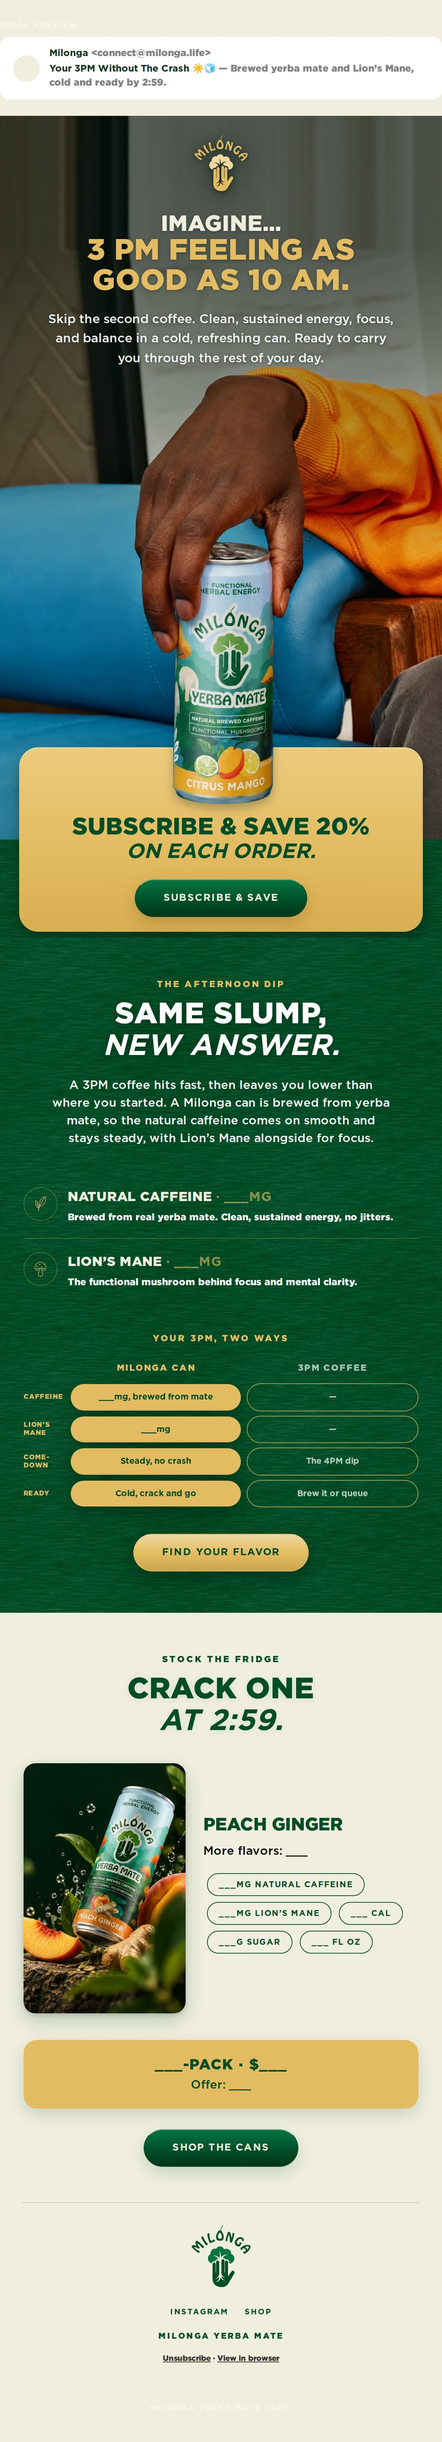
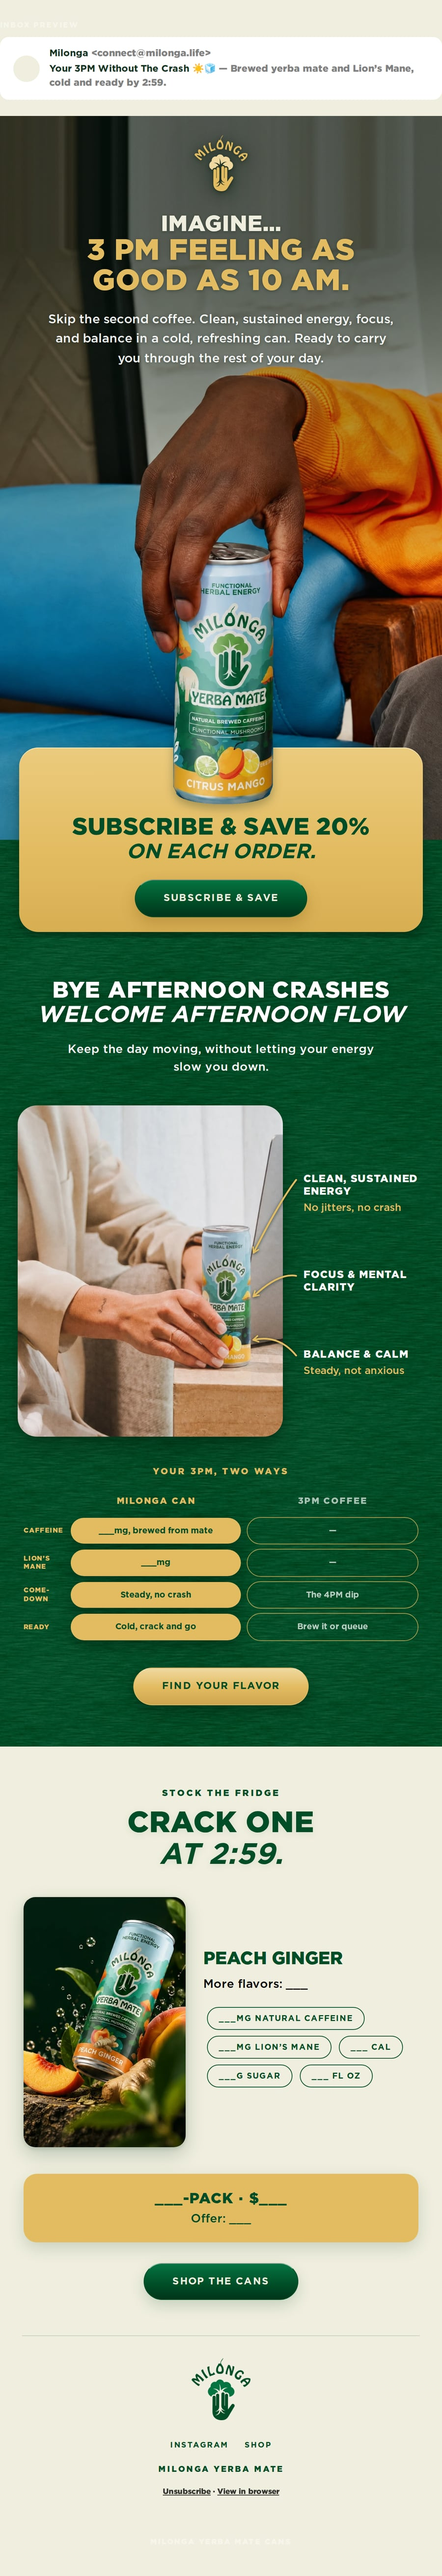
email: section 2 opens on the desk shot with three benefit arrows
New title and line, the eyebrow and ingredient rows removed, and the
Citrus Mango desk photo in a big rounded frame with three gold arrows
running from the benefits on the green into the picture to the can.

Claude-Session: https://claude.ai/code/session_01NhEtXPnfeCJfN73SqBkUZ5

diff --git a/email-ds/emails/three-pm-cans.jsx b/email-ds/emails/three-pm-cans.jsx
@@ -26,6 +26,20 @@ const TBD = '___';
 
 // Section 1 geometry: photo pixels → design units, and the subscribe card.
 const CAN = 600 / 1493;
+
+// Section 2 callout figure. The frame shows the desk crop (850 x 1060); the
+// can sits at x 592–745, y 382–835 of that crop.
+const FIG = { x: 24, w: 360, h: Math.round(360 * 1060 / 850) };
+const CROP = (x, y) => [FIG.x + x * FIG.w / 850, y * FIG.h / 1060];
+const LABEL_X = 412;
+const CALLOUTS = (() => {
+  const right = CROP(745, 0)[0] + 5;
+  return [
+    { title: 'Clean, sustained energy', note: 'No jitters, no crash', y: 92, ty: CROP(0, 470)[1] },
+    { title: 'Focus & mental clarity', y: 222, ty: CROP(0, 610)[1] },
+    { title: 'Balance & calm', note: 'Steady, not anxious', y: 330, ty: CROP(0, 750)[1] },
+  ].map(c => ({ ...c, tx: right, cx: (LABEL_X + right) / 2, cy: (c.y + 9 + c.ty) / 2 - 18 }));
+})();
 const CARD_H = 250;
 
 const SECTION_1_ALT =
@@ -146,27 +160,57 @@ function ThreePmCans() {
       position: 'relative', overflow: 'hidden' } },
 
       h('div', { style: { textAlign: 'center' } },
-        h('div', { style: { fontFamily: FONT, fontWeight: 900, fontSize: 12,
-          letterSpacing: '0.2em', textTransform: 'uppercase', color: GOLD,
-          marginBottom: 14 } }, 'The afternoon dip'),
-        h(M.Headline, { line1: 'Same slump,', line2: 'new answer.', bg: 'forest',
-          size: 40, align: 'center', color: '#FFFFFF', line2Color: '#FFFFFF', italic: true }),
+        h(M.Headline, { line1: 'Bye afternoon crashes', line2: 'welcome afternoon flow', bg: 'forest',
+          size: 31, align: 'center', color: '#FFFFFF', line2Color: '#FFFFFF', italic: true }),
         h('div', { style: { fontFamily: FONT, fontWeight: 500, fontSize: 16,
-          lineHeight: 1.5, color: '#FFFFFF', maxWidth: 460, margin: '20px auto 0' } },
-          'A 3PM coffee hits fast, then leaves you lower than where you started. ' +
-          'A Milonga can is brewed from yerba mate, so the natural caffeine comes on ' +
-          'smooth and stays steady, with Lion’s Mane alongside for focus.'),
+          lineHeight: 1.5, color: '#FFFFFF', maxWidth: 440, margin: '18px auto 0' } },
+          'Keep the day moving, without letting your energy slow you down.'),
       ),
 
-      // Ring rows with the dose in the title — the copy is doing the work
-      // here, so the quiet variant. Doses are blanks until the label is in.
-      h('div', { style: { marginTop: 36 } },
-        h(M.BenefitList, { bg: 'forest', variant: 'ring', twoTone: false, items: [
-          { mark: 'yerba-mate', title: 'Natural caffeine', dose: `${TBD}MG`,
-            text: 'Brewed from real yerba mate. Clean, sustained energy, no jitters.' },
-          { mark: 'lions-mane', title: 'Lion’s Mane', dose: `${TBD}MG`,
-            text: 'The functional mushroom behind focus and mental clarity.' },
-        ] }),
+      // THE CALLOUT FIGURE. The desk shot in a big rounded frame, set left,
+      // with the three benefits on the green to its right and an arrow from
+      // each one running into the picture to the can. The arrows cross the
+      // frame's edge on purpose — that crossing is what ties a label on the
+      // page to an object in the photograph.
+      //
+      // Geometry is in the 600-unit width of the email (the block cancels
+      // the band's 32 padding). The frame is a crop of the original file —
+      // x 330–1180, y 280–1340 — so the can (x 922–1075, y 662–1115 in the
+      // original) lands at a known place and every arrow can be aimed at it.
+      h('div', { style: { position: 'relative', margin: '40px -32px 0', height: FIG.h } },
+        h('div', { style: { position: 'absolute', left: FIG.x, top: 0, width: FIG.w, height: FIG.h,
+          borderRadius: 26, overflow: 'hidden',
+          boxShadow: '0 16px 34px rgba(0,26,13,0.38), 0 3px 8px rgba(0,26,13,0.24)' } },
+          h('img', { src: '../public/product/can-citrus-mango-desk-crop.jpg',
+            alt: 'A woman in a linen suit rests her hand on a can of Milonga Yerba Mate in Citrus Mango, on a travertine side table beside her open laptop.',
+            style: { width: '100%', height: '100%', display: 'block', objectFit: 'cover' } }),
+        ),
+
+        CALLOUTS.map((c, i) => h('div', { key: i, style: { position: 'absolute',
+          left: LABEL_X, top: c.y, width: 600 - LABEL_X - 22 } },
+          h('div', { style: { fontFamily: FONT, fontWeight: 900, fontSize: 14, lineHeight: 1.2,
+            letterSpacing: '0.06em', textTransform: 'uppercase', color: '#FFFFFF' } }, c.title),
+          c.note ? h('div', { style: { fontFamily: FONT, fontWeight: 500, fontSize: 14,
+            lineHeight: 1.35, color: GOLD, marginTop: 4 } }, c.note) : null,
+        )),
+
+        // The arrows, drawn over both the frame and the green. Gold carries
+        // on the band; the dark shadow under the stroke is what keeps it
+        // visible where it crosses the pale travertine and the laptop.
+        h('svg', { width: 600, height: FIG.h, viewBox: `0 0 600 ${FIG.h}`,
+          style: { position: 'absolute', left: 0, top: 0, overflow: 'visible',
+            filter: 'drop-shadow(0 1px 2px rgba(0,26,13,0.75))' } },
+          h('defs', null,
+            h('marker', { id: 'arrowhead', markerWidth: 10, markerHeight: 10, refX: 7, refY: 5,
+              orient: 'auto', markerUnits: 'userSpaceOnUse' },
+              h('path', { d: 'M1,1 L8,5 L1,9', fill: 'none', stroke: GOLD, strokeWidth: 2,
+                strokeLinecap: 'round', strokeLinejoin: 'round' })),
+          ),
+          CALLOUTS.map((c, i) => h('path', { key: i,
+            d: `M ${LABEL_X - 10} ${c.y + 9} Q ${c.cx} ${c.cy} ${c.tx} ${c.ty}`,
+            fill: 'none', stroke: GOLD, strokeWidth: 2.4, strokeLinecap: 'round',
+            markerEnd: 'url(#arrowhead)' })),
+        ),
       ),
 
       // The comparison. Our column is gold, theirs a hairline — the stripe
